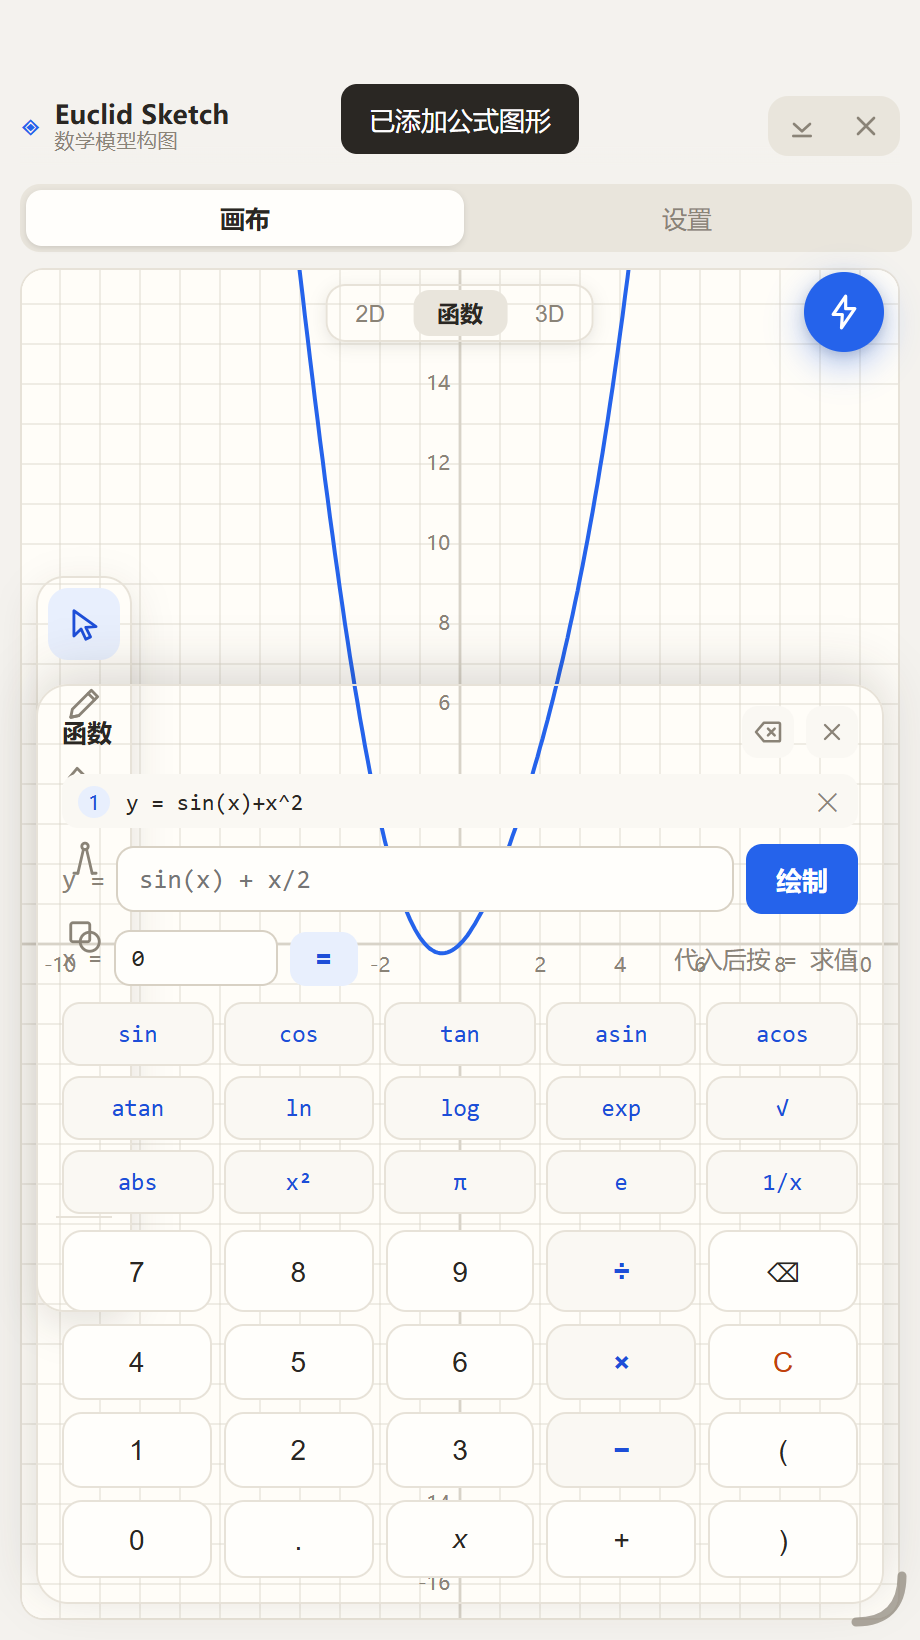
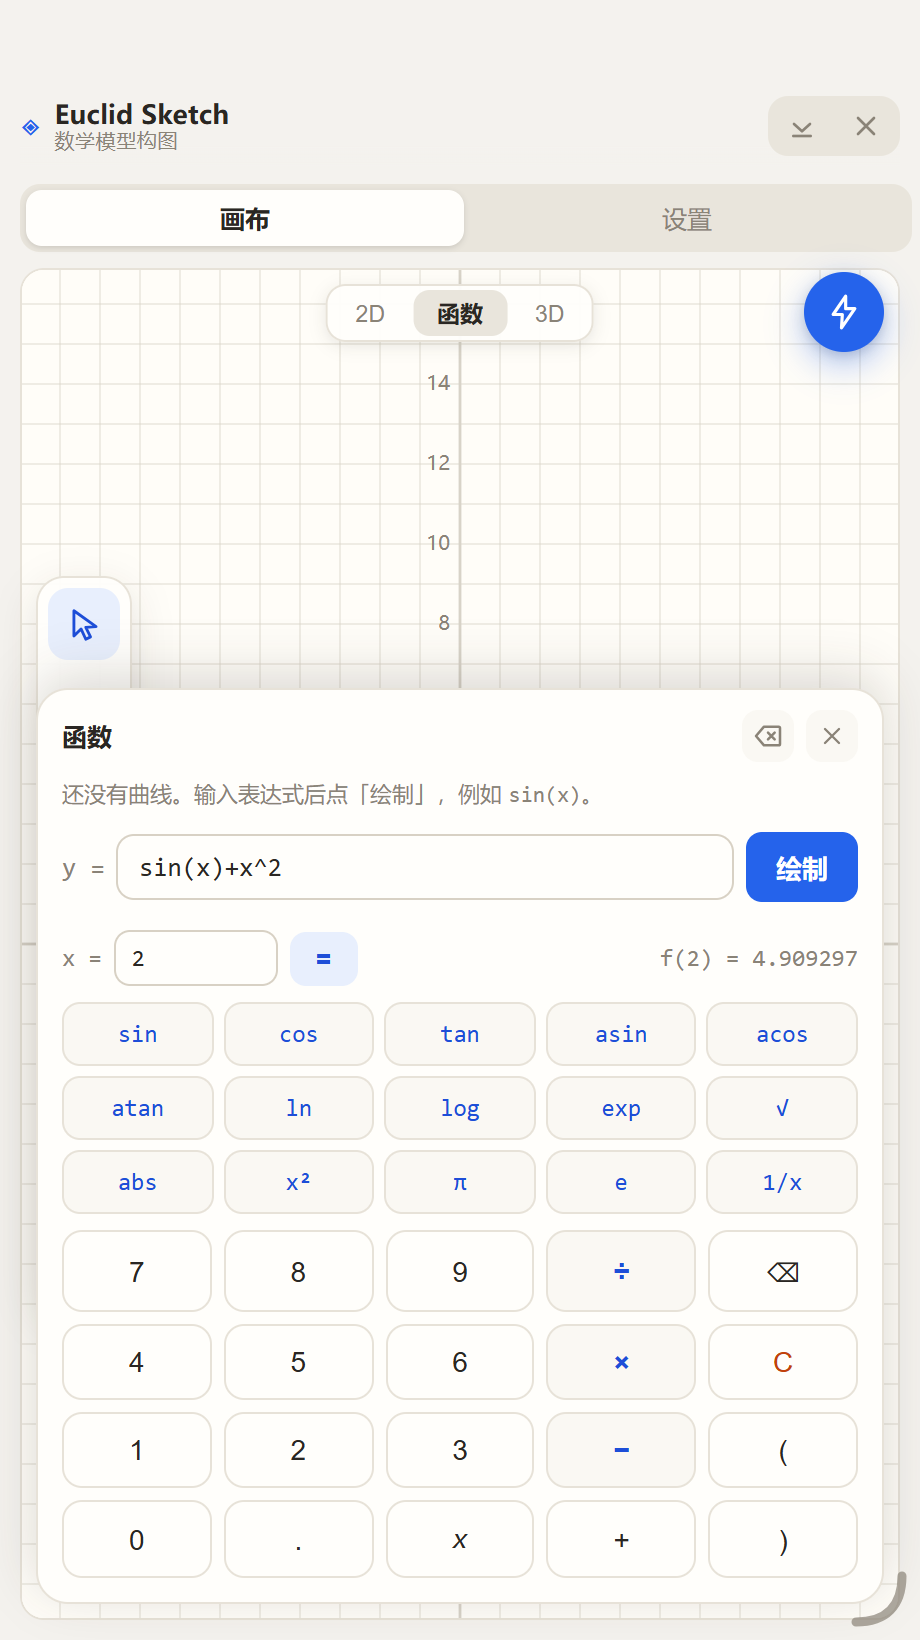
release: 0.2.0 — 修复输入法无法键入、补 x 代入行、加稳定性护栏
- 版本 0.1.0 → 0.2.0（MN 会跳过同版本安装，旧构建装不上新包）
- 表达式草稿下沉到函数面板内部：逐字输入不再重渲染整个画布
- 自动高度加 200ms 去抖 + 2px 阈值，避免键盘引起来回 mn.fit()
- 网格线数量上限 240 条，极端缩放不再生成上万节点
- 浮层背景变量自引用修复、14 色调色板、f(x) 标注、输入行锁定单行
- README/CHANGELOG/说明文档同步 0.2.0

diff --git a/src/stage/FunctionPad.tsx b/src/stage/FunctionPad.tsx
@@ -10,7 +10,7 @@
  * 求值直接用与绘图同一套求值器（model/expr），所以键位上能按的，
  * 画出来和算出来的结果完全一致。
  */
-import { useEffect, useRef, useState } from "react";
+import { useRef, useState } from "react";
 
 import { compileExpr } from "../model/expr";
 import type { Shape } from "../model/types";
@@ -36,11 +36,10 @@ const PAD_KEYS: string[] = [
 const SYMBOL_MAP: Record<string, string> = { "÷": "/", "×": "*", "−": "-" };
 
 interface Props {
-  expr: string;
-  onExpr: (value: string) => void;
-  onBackspace: () => void;
-  onClear: () => void;
-  onAdd: () => void;
+  /** 点「绘制」时调用，返回是否成功（成功才清空草稿） */
+  onAdd: (expr: string) => { ok: boolean };
+  /** 焦点进入/离开输入框（用于暂停自动高度，避免键盘导致反复 mn.fit） */
+  onTypingChange?: (typing: boolean) => void;
   onClose: () => void;
   message: string;
   shapes: Shape[];
@@ -48,7 +47,10 @@ interface Props {
 }
 
 export function FunctionPad(props: Props) {
-  const { expr, onExpr, onBackspace, onClear, onAdd, onClose, message, shapes, onDeleteShape } = props;
+  const { onAdd, onTypingChange, onClose, message, shapes, onDeleteShape } = props;
+  // 草稿放在面板内部：每敲一个字只重渲染这个面板，
+  // 不再牵动画布整棵树（之前逐字上抛状态，输入法下会明显卡顿）。
+  const [expr, setExprState] = useState("");
   const curves = shapes.filter((s) => s.type === "function" || s.type === "parametric");
 
   // 输入法（尤其是中文/拼音）组字期间，DOM 里的文字不会进 React state。
@@ -57,21 +59,24 @@ export function FunctionPad(props: Props) {
   const inputRef = useRef<HTMLInputElement>(null);
   const composing = useRef(false);
 
-  useEffect(() => {
-    const el = inputRef.current;
-    if (!el || composing.current) return;
-    if (el.value !== expr) el.value = expr;
-  }, [expr]);
-
-  // 程序化修改：同时更新 state 与 DOM
+  // 程序化修改：同时更新 state 与 DOM（DOM 与 state 始终一致，组字期间除外）
   const setExpr = (next: string) => {
-    onExpr(next);
+    setExprState(next);
     if (inputRef.current) inputRef.current.value = next;
   };
 
   // 代入求值：x 取一个值，用同一套求值器算结果
   const [xValue, setXValue] = useState("1");
   const [result, setResult] = useState<{ ok: boolean; text: string } | null>(null);
+
+  /** 提交给画布：成功则清空草稿，失败保留以便修改 */
+  const draw = () => {
+    const res = onAdd(expr);
+    if (res.ok) {
+      setExpr("");
+      setResult(null);
+    }
+  };
 
   const evaluate = () => {
     const x = Number(xValue);
@@ -101,12 +106,10 @@ export function FunctionPad(props: Props) {
   const pressPadKey = (key: string) => {
     if (key === "⌫") {
       setExpr(expr.slice(0, -1));
-      onBackspace();
       return;
     }
     if (key === "C") {
       setExpr("");
-      onClear();
       setResult(null);
       return;
     }
@@ -118,7 +121,7 @@ export function FunctionPad(props: Props) {
       <div className="fnpad-head">
         <b>函数</b>
         <div className="fnpad-head-right">
-          <button type="button" className="fnpad-quick-btn" onClick={() => { setExpr(expr.slice(0, -1)); onBackspace(); }} aria-label="退格">
+          <button type="button" className="fnpad-quick-btn" onClick={() => setExpr(expr.slice(0, -1))} aria-label="退格">
             <DeleteIcon size={16} />
           </button>
           <button type="button" className="drawer-close" onClick={onClose} aria-label="收起函数面板">
@@ -149,13 +152,15 @@ export function FunctionPad(props: Props) {
           ref={inputRef}
           className="fnpad-field"
           defaultValue={expr}
-          onInput={(e) => onExpr(e.currentTarget.value)}
+          onInput={(e) => setExprState(e.currentTarget.value)}
+          onFocus={() => onTypingChange?.(true)}
+          onBlur={() => onTypingChange?.(false)}
           onCompositionStart={() => { composing.current = true; }}
           onCompositionEnd={(e) => {
             composing.current = false;
-            onExpr(e.currentTarget.value);
+            setExprState(e.currentTarget.value);
           }}
-          onKeyDown={(e) => e.key === "Enter" && onAdd()}
+          onKeyDown={(e) => e.key === "Enter" && draw()}
           placeholder="sin(x)+x/2"
           inputMode="text"
           autoComplete="off"
@@ -164,7 +169,7 @@ export function FunctionPad(props: Props) {
           spellCheck={false}
           enterKeyHint="done"
         />
-        <button type="button" className="primary fnpad-draw" onClick={onAdd}>绘制</button>
+        <button type="button" className="primary fnpad-draw" onClick={draw}>绘制</button>
       </div>
 
       {/* 代入求值 */}

diff --git a/src/App.tsx b/src/App.tsx
@@ -79,8 +79,9 @@ export function App({ systemDark = false, mnTheme = null }: AppProps = {}) {
   const [optionsOpen, setOptionsOpen] = useState(false);
   const [quickOpen, setQuickOpen] = useState(false);
   const [selectedId, setSelectedId] = useState<string | null>(null);
-  const [formula, setFormula] = useState("");
   const [formulaMsg, setFormulaMsg] = useState("");
+  // 正在输入法里打字：暂停自动高度，避免键盘弹起/收起引发反复 mn.fit
+  const [typing, setTyping] = useState(false);
   const [toast, setToast] = useState("");
   const [lockRadius, setLockRadius] = useState(false);
   const [lockedRadius, setLockedRadius] = useState<number | null>(null);
@@ -142,7 +143,7 @@ export function App({ systemDark = false, mnTheme = null }: AppProps = {}) {
   });
   // 收起为迷你条时暂停高度自适应，否则 mn.fit 会把迷你条撑回内容高度
   const [collapsed, setCollapsed] = useState(false);
-  const autoFitRef = useAutoFitHeight(settings.autoFitHeight && !collapsed);
+  const autoFitRef = useAutoFitHeight(settings.autoFitHeight && !collapsed && !typing);
 
   const onCollapse = useCallback(() => {
     setCollapsed(true);
@@ -175,20 +176,20 @@ export function App({ systemDark = false, mnTheme = null }: AppProps = {}) {
     };
   }, [showToast]);
 
-  // ---- 公式添加 ----
-  const onAddFormula = useCallback(() => {
-    const result = parseFormula(formula, color);
+  // ---- 公式添加（由函数面板传入表达式，返回是否成功） ----
+  const onAddFormula = useCallback((src: string): { ok: boolean } => {
+    const result = parseFormula(src, color);
     if (result.kind === "error") {
       setFormulaMsg(result.message);
-      return;
+      return { ok: false };
     }
     setShapes((prev) => [...prev, result.shape]);
     setFormulaMsg("");
-    setFormula("");
     // 在函数面板里连续绘制时不切走，切回 2D 反而会把面板关掉
     setTab((cur) => (cur === "fn" ? "fn" : "2d"));
     showToast("已添加公式图形");
-  }, [formula, color, setShapes, showToast]);
+    return { ok: true };
+  }, [color, setShapes, showToast]);
 
   // ---- 圆规锁定半径 ----
   const onToggleLock = () => {
@@ -400,11 +401,8 @@ export function App({ systemDark = false, mnTheme = null }: AppProps = {}) {
 
           {tab === "fn" ? (
             <FunctionPad
-              expr={formula}
-              onExpr={setFormula}
-              onBackspace={() => setFormula((prev) => prev.slice(0, -1))}
-              onClear={() => { setFormula(""); setFormulaMsg(""); }}
               onAdd={onAddFormula}
+              onTypingChange={setTyping}
               onClose={() => setTab("2d")}
               message={formulaMsg}
               shapes={shapes}

diff --git a/src/settings/useAutoFit.ts b/src/settings/useAutoFit.ts
@@ -21,13 +21,20 @@ export function useAutoFitHeight(enabled: boolean) {
     const element = ref.current;
     if (!enabled || !element) return;
 
-    let frame = 0;
+    let timer: ReturnType<typeof setTimeout> | null = null;
+    let lastHeight = -1;
+
+    // 护栏：高度差小于 2px 不触发；且 200ms 内只触发一次。
+    // 键盘弹起/收起会让面板高度来回变化，没有护栏时 mn.fit() 会和宿主反复拉锯。
     const schedule = () => {
-      if (frame) return;
-      frame = requestAnimationFrame(() => {
-        frame = 0;
+      if (timer) clearTimeout(timer);
+      timer = setTimeout(() => {
+        timer = null;
+        const height = element.getBoundingClientRect().height;
+        if (Math.abs(height - lastHeight) < 2) return;
+        lastHeight = height;
         fitPanelHeight();
-      });
+      }, 200);
     };
 
     // 首次开启立刻对齐一次，后续交给尺寸观察
@@ -37,7 +44,7 @@ export function useAutoFitHeight(enabled: boolean) {
 
     return () => {
       observer?.disconnect();
-      if (frame) cancelAnimationFrame(frame);
+      if (timer) clearTimeout(timer);
     };
   }, [enabled]);
 

diff --git a/src/canvas/viewport.ts b/src/canvas/viewport.ts
@@ -46,8 +46,15 @@ export function gridLines(v: Viewport, step: number): { x: number[]; y: number[]
   if (step <= 0) return { x: xs, y: ys };
   const [x0, x1] = v.xRange;
   const [y0, y1] = v.yRange;
-  for (let x = Math.ceil(x0 / step) * step; x <= x1; x += step) xs.push(x);
-  for (let y = Math.ceil(y0 / step) * step; y <= y1; y += step) ys.push(y);
+  // 上限保护：极端缩放时按倍数放粗步长，避免生成上万条线把界面卡死
+  const MAX_LINES = 240;
+  const countX = Math.ceil((x1 - x0) / step);
+  const countY = Math.ceil((y1 - y0) / step);
+  const stepX = countX > MAX_LINES ? step * Math.ceil(countX / MAX_LINES) : step;
+  const stepY = countY > MAX_LINES ? step * Math.ceil(countY / MAX_LINES) : step;
+
+  for (let x = Math.ceil(x0 / stepX) * stepX; x <= x1; x += stepX) xs.push(x);
+  for (let y = Math.ceil(y0 / stepY) * stepY; y <= y1; y += stepY) ys.push(y);
   return { x: xs, y: ys };
 }
 

diff --git a/src/version.ts b/src/version.ts
@@ -1,2 +1,2 @@
 /** 插件版本：与 mnaddon.json 的 version 保持一致 */
-export const APP_VERSION = "0.1.0";
+export const APP_VERSION = "0.2.0";

diff --git a/README.md b/README.md
@@ -5,7 +5,7 @@
 一个 **MarginNote 5 场景插件**。它不是把图做好再贴进笔记，而是把笔记里那块「草稿纸」变成可计算、可编辑的画布——随手画、随手改、随手导出。
 
 <p>
-  <img alt="version" src="https://img.shields.io/badge/version-0.1.0-2563eb">
+  <img alt="version" src="https://img.shields.io/badge/version-0.2.0-2563eb">
   <img alt="platform" src="https://img.shields.io/badge/MarginNote-5%20%7C%20iPadOS-1d4ed8">
   <img alt="license" src="https://img.shields.io/badge/license-MIT-3a7d44">
 </p>
@@ -25,6 +25,7 @@
 ### 画布
 
 - **草稿纸手感**：用笔直接写、直接涂，笔迹实时呈现，可选笔迹平滑
+- **14 色调色板**：墨黑、灰在前（批注常用），后接蓝/青/绿/草绿/橙/红/玫红/紫/靛/深青/金褐/暖灰，固定两行七列
 - **画布铺满面板**：面板拉多大画布就多大；缩放时保持比例，图形不会跳
 - **两种背景**：坐标系（网格 + 刻度）或空白画布
 - **缩放平移**：双指捏合 / 滚轮缩放，平移工具拖动画布
@@ -105,6 +106,16 @@ pnpm build      # 构建面板
 pnpm package    # 生成 .mnaddon / .mntemplate
 pnpm sync       # 安装到本机 MarginNote（仅 macOS）
 ```
+
+### 发布
+
+改好 `src/repo.ts` 里的 `GITHUB_OWNER`，然后打 tag 即可——`.github/workflows/release.yml` 会跑 check/build/package，并把 `.mnaddon` 与 `.mntemplate` 挂到 Release：
+
+```bash
+git tag v0.1.0 && git push origin v0.1.0
+```
+
+> 插件内「设置 → 窗口与关于 → 检查更新」读的就是这个 Release，所以仓库至少要有一个 Release 才会返回版本号。
 
 ### 目录
 

diff --git a/安装与使用说明.md b/安装与使用说明.md
@@ -2,7 +2,7 @@
 
 > **插件名**：英文 **Euclid Sketch**（欧几里得 + 草稿，取意「尺规作图」传统）。
 > 在中文界面里，场景模板名会按 `localizations.json` 显示为「数学模型构图」，插件列表里显示 `Euclid Sketch`。
-> 当前版本 **0.1.0**。
+> 当前版本 **0.2.0**。
 
 一个 MarginNote 5 场景插件：在 MN 内直接画圆、建坐标系、输入公式生成曲线、用圆规构图，插入圆锥/圆柱/球/棱锥/圆环等立体模型，并支持**拖动调整窗口大小**。
 
@@ -12,10 +12,10 @@
 
 推荐使用**模板包**（自带插件，最省事）：
 
-1. 把 `release/Euclid Sketch-0.1.0.mntemplate` 存入 iPad「文件」App（通过 AirDrop、iCloud 云盘或第三方网盘）。
+1. 把 `release/Euclid Sketch-0.2.0.mntemplate` 存入 iPad「文件」App（通过 AirDrop、iCloud 云盘或第三方网盘）。
 2. 在 iPad 上打开 MarginNote → **设置 → 场景模板 → 管理场景模板 → 导入**，选择该 `.mntemplate` 文件。
 3. 导入模板会连带安装插件。进入任意学习集，新建场景时选择本模板即可打开面板。
-4. 也可单独安装插件：把 `Euclid Sketch-0.1.0.mnaddon` 存入「文件」App → **设置 → 插件 → 导入**。
+4. 也可单独安装插件：把 `Euclid Sketch-0.2.0.mnaddon` 存入「文件」App → **设置 → 插件 → 导入**。
 
 > 版本说明：MN 对**同版本**的包会跳过安装（模板包：本机版本相同或更高即跳过）。本包固定为 0.1.0；若你之前装过同名同版本的旧构建，请先删除旧插件/旧模板再导入，否则会被跳过。
 

diff --git a/CHANGELOG.md b/CHANGELOG.md
@@ -2,9 +2,19 @@
 
 遵循 [语义化版本](https://semver.org/lang/zh-CN/)。
 
-## 0.1.0
+## 0.2.0
 
-首个可发布版本。
+首个公开版本。
+
+> 0.1.0 是内部构建，未公开；因 MarginNote 会跳过同版本安装，
+> 公开版直接从 0.2.0 开始。
+
+### 修复
+- **输入法无法键入**：表达式框改为 DOM 持有文字，组字期间不再被重渲染覆盖
+- **计算器缺 x 代入行**：新增 `x =` 输入与 `=` 求值
+- 每敲一个字不再重渲染整个画布（草稿状态下沉到面板内部）
+- 键盘弹起时暂停自动高度，避免反复调用 `mn.fit()`
+- 浮层（工具列 / 抽屉 / 计算器 / 顶部胶囊）背景变量自引用导致全透明
 
 ### 画布
 - 草稿纸画布：画笔、笔迹平滑、橡皮擦（命中半径可调）
